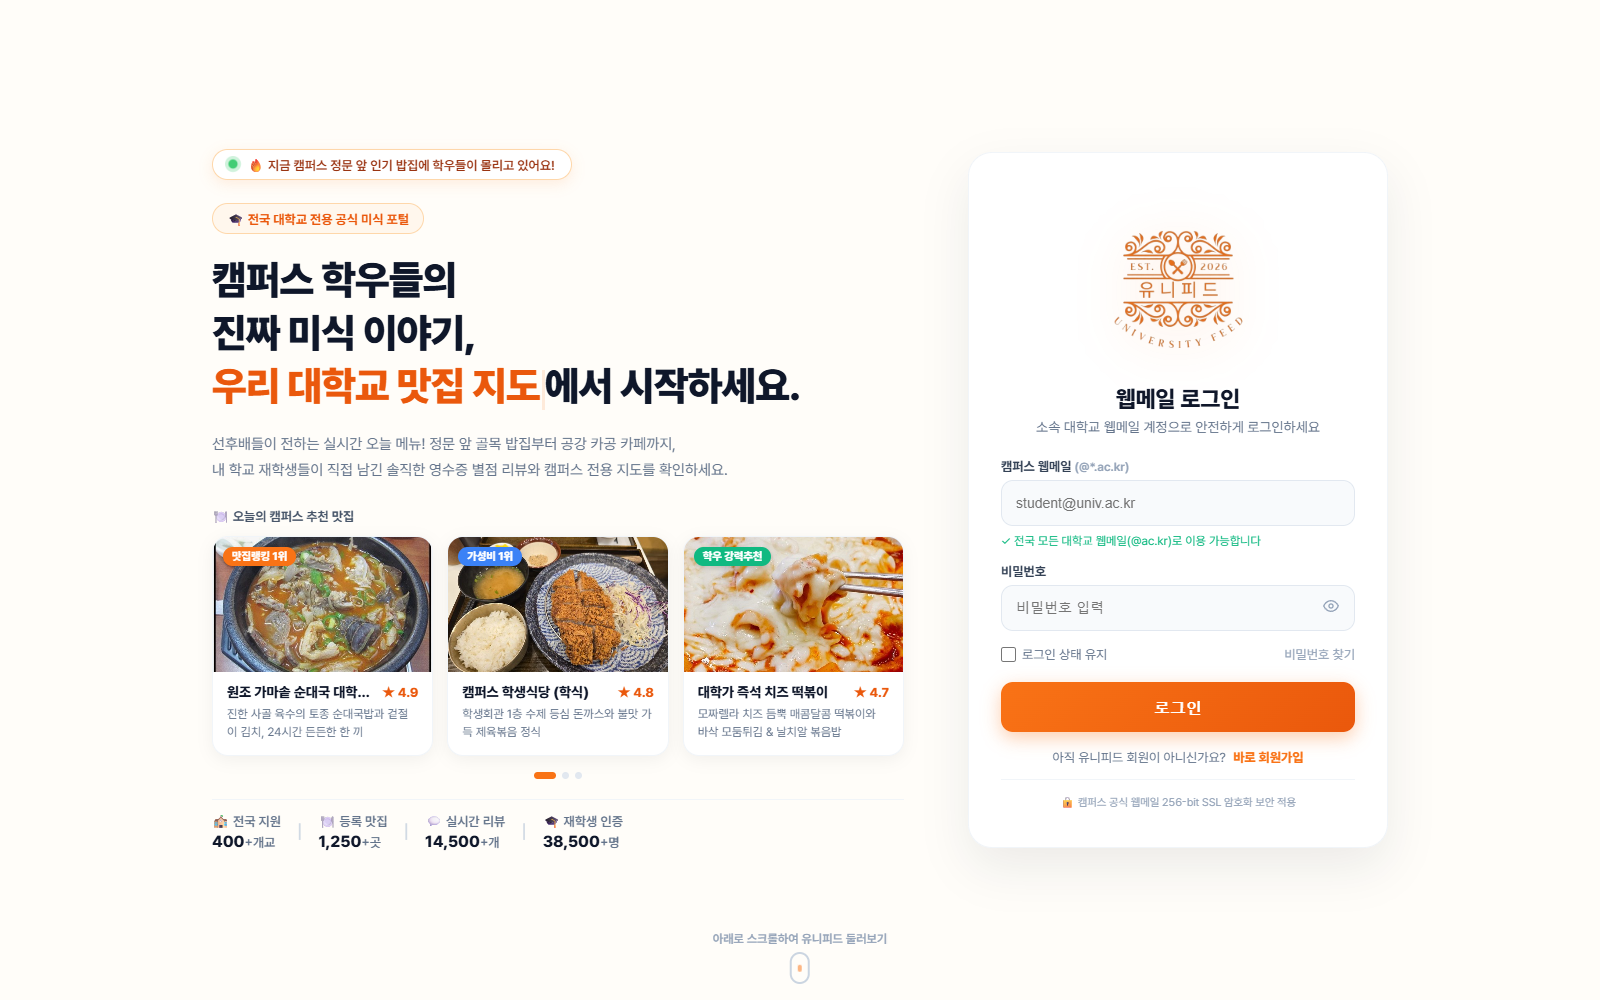
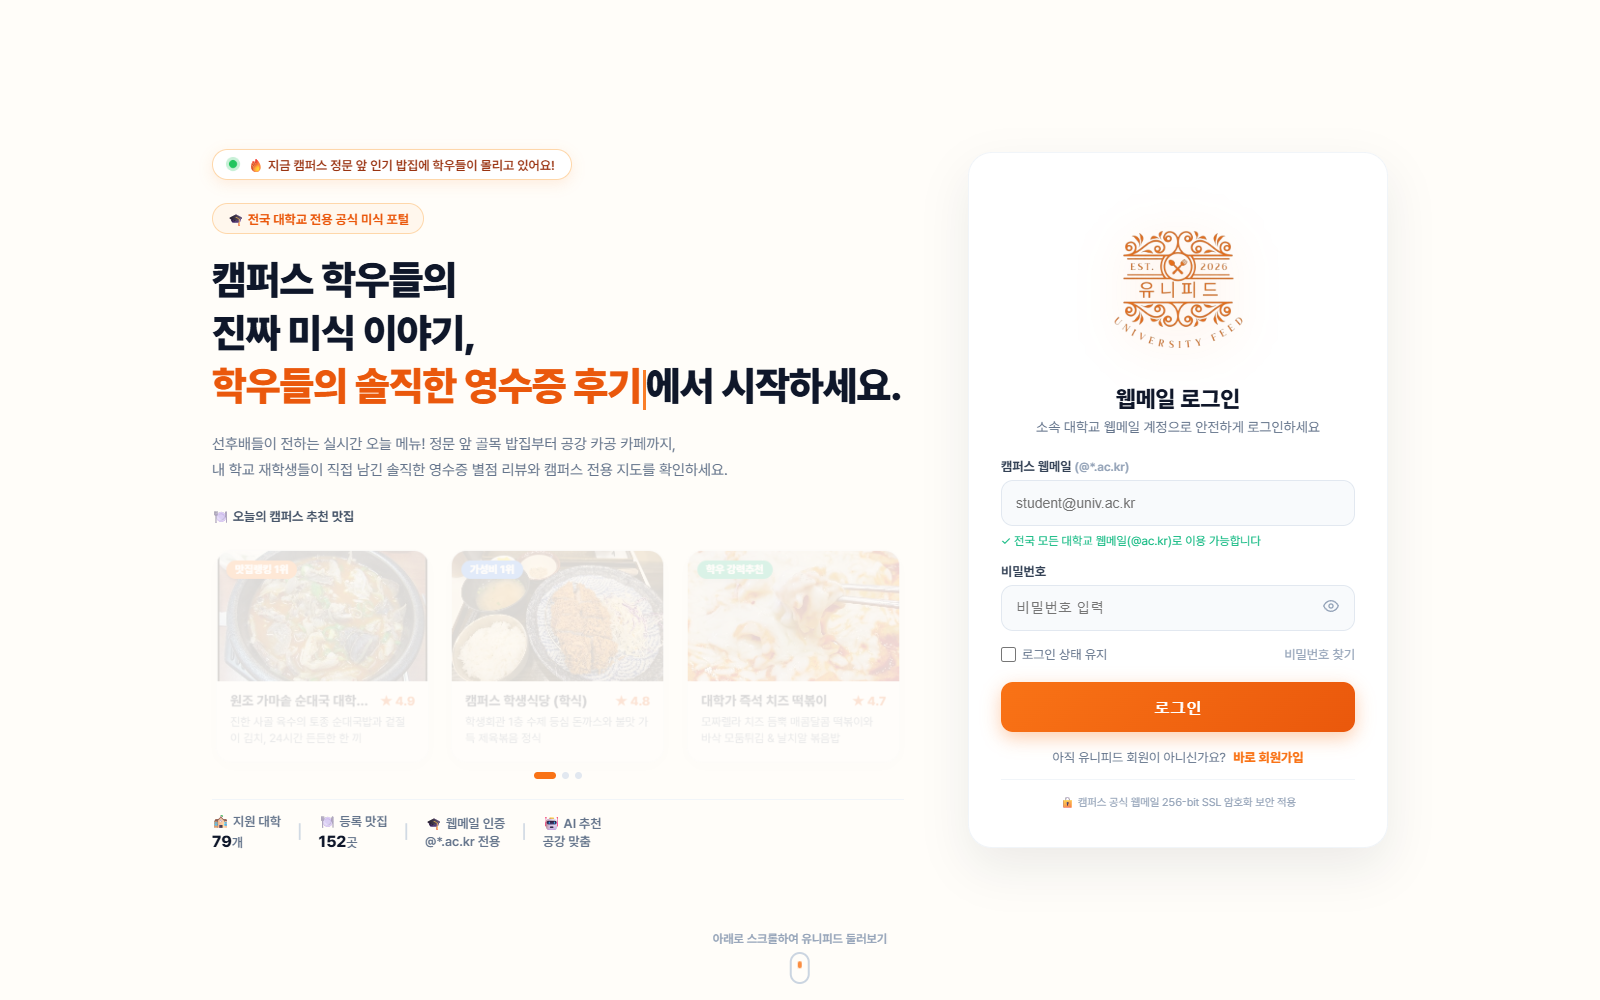
fix: 로그인 화면 통계바를 실제 DB 집계로 교체
하드코딩된 홍보용 더미 수치(400개교/1250곳/14500리뷰/38500명)를 걷어냈다.
- 지원 대학 / 등록 맛집: UniversityService.count(), RestaurantService.count() 실시간 집계
- 리뷰 수 / 회원 수: 숫자 대신 서비스 특징(웹메일 인증, AI 공강 추천) 표기
- README 로그인 스크린샷도 실제 수치 반영본으로 교체

diff --git a/src/main/resources/templates/auth/login.html b/src/main/resources/templates/auth/login.html
@@ -75,23 +75,23 @@
     <!-- 4. 하단 통계 숫자 (카운팅업 애니메이션) -->
     <div class="hero-stats">
       <div class="stat-item">
-        <span class="stat-label">🏫 전국 지원</span>
-        <span class="stat-val"><b class="count-up" data-target="400">0</b>+개교</span>
+        <span class="stat-label">🏫 지원 대학</span>
+        <span class="stat-val"><b class="count-up" th:attr="data-target=${universityCount}" data-target="0">0</b>개</span>
       </div>
       <span class="stat-divider">|</span>
       <div class="stat-item">
         <span class="stat-label">🍽 등록 맛집</span>
-        <span class="stat-val"><b class="count-up" data-target="1250">0</b>+곳</span>
+        <span class="stat-val"><b class="count-up" th:attr="data-target=${restaurantCount}" data-target="0">0</b>곳</span>
       </div>
       <span class="stat-divider">|</span>
       <div class="stat-item">
-        <span class="stat-label">💬 실시간 리뷰</span>
-        <span class="stat-val"><b class="count-up" data-target="14500">0</b>+개</span>
+        <span class="stat-label">🎓 웹메일 인증</span>
+        <span class="stat-val">@*.ac.kr 전용</span>
       </div>
       <span class="stat-divider">|</span>
       <div class="stat-item">
-        <span class="stat-label">🎓 재학생 인증</span>
-        <span class="stat-val"><b class="count-up" data-target="38500">0</b>+명</span>
+        <span class="stat-label">🤖 AI 추천</span>
+        <span class="stat-val">공강 맞춤</span>
       </div>
     </div>
 
@@ -635,7 +635,7 @@
         badgeClass: 'badge-orange',
         rating: '★ 4.9',
         desc: '진한 사골 육수의 토종 순대국밥과 겉절이 김치, 24시간 든든한 한 끼',
-        img: '/images/card-sundae-gukbap.jpg'
+        img: '/images/card-sundae-gukbap.jpg?v=2'
       },
       {
         name: '캠퍼스 학생식당 (학식)',
@@ -643,7 +643,7 @@
         badgeClass: 'badge-blue',
         rating: '★ 4.8',
         desc: '학생회관 1층 수제 등심 돈까스와 불맛 가득 제육볶음 정식',
-        img: '/images/card-donkatsu-jeongsik.jpg'
+        img: '/images/card-donkatsu-jeongsik.jpg?v=2'
       },
       {
         name: '대학가 즉석 치즈 떡볶이',
@@ -651,7 +651,7 @@
         badgeClass: 'badge-green',
         rating: '★ 4.7',
         desc: '모짜렐라 치즈 듬뿍 매콤달콤 떡볶이와 바삭 모둠튀김 & 날치알 볶음밥',
-        img: '/images/card-cheese-tteokbokki.jpg'
+        img: '/images/card-cheese-tteokbokki.jpg?v=2'
       }
     ],
     // 세트 2
@@ -662,7 +662,7 @@
         badgeClass: 'badge-orange',
         rating: '★ 4.9',
         desc: '베이컨 듬뿍 정통 까르보나라와 고르곤졸라 화덕 피자, 대학생 가성비 1등',
-        img: '/images/card-carbonara-pasta.jpg'
+        img: '/images/card-carbonara-pasta.jpg?v=2'
       },
       {
         name: '컴포즈커피 대학가점',
@@ -670,7 +670,7 @@
         badgeClass: 'badge-blue',
         rating: '★ 4.8',
         desc: '콘센트 넉넉한 2층 좌석과 가성비 대용량 아메리카노 & 갓 구운 와플',
-        img: '/images/card-cafe-americano.jpg'
+        img: '/images/card-cafe-americano.jpg?v=2'
       },
       {
         name: '착한밥상 찌개마을',
@@ -678,7 +678,7 @@
         badgeClass: 'badge-green',
         rating: '★ 4.8',
         desc: '밥·반찬 무한리필 든든한 돼지 김치찌개와 통통한 왕계란말이',
-        img: '/images/card-kimchi-jjigae.jpg'
+        img: '/images/card-kimchi-jjigae.jpg?v=2'
       }
     ],
     // 세트 3
@@ -689,7 +689,7 @@
         badgeClass: 'badge-orange',
         rating: '★ 4.9',
         desc: '주문 즉시 볶아내는 화끈한 불맛 제육볶음과 반숙 계란후라이 토핑',
-        img: '/images/card-jeyuk-deopbap.jpg'
+        img: '/images/card-jeyuk-deopbap.jpg?v=2'
       },
       {
         name: '대학가 수제 버거앤프라이즈',
@@ -697,7 +697,7 @@
         badgeClass: 'badge-blue',
         rating: '★ 4.8',
         desc: '육즙 가득 100% 소고기 수제 패티와 바삭바삭 갈릭 치즈 감자튀김',
-        img: '/images/card-handmade-burger.jpg'
+        img: '/images/card-handmade-burger.jpg?v=2'
       },
       {
         name: '정문 앞 얼큰한 해물짬뽕과 탕수육',
@@ -705,7 +705,7 @@
         badgeClass: 'badge-green',
         rating: '★ 4.7',
         desc: '홍합·전복 가득 얼큰한 삼선짬뽕과 찹쌀 탕수육, 공강 시간 5분 컷 빠른 서빙',
-        img: '/images/card-jjamppong-tangsuyuk.jpg'
+        img: '/images/card-jjamppong-tangsuyuk.jpg?v=2'
       }
     ]
   ];

diff --git a/src/main/resources/static/sw.js b/src/main/resources/static/sw.js
@@ -1,7 +1,7 @@
 // 유니피드 서비스워커 — 홈 화면 설치(PWA) 목적이 우선이라 범위를 최소로 잡는다.
 // 정적 자산(css/js/이미지/폰트)만 캐시하고, 페이지·API 응답은 절대 캐시하지 않는다
 // (지도/커뮤니티/신고 처리 같은 실시간 데이터를 오프라인 캐시로 보여주면 오히려 혼란만 줌).
-const CACHE_NAME = 'unifeed-static-v1';
+const CACHE_NAME = 'unifeed-static-v2';
 
 self.addEventListener('install', (event) => {
   self.skipWaiting();

diff --git a/src/main/java/ac/kr/osan/unifeed/controller/AuthController.java b/src/main/java/ac/kr/osan/unifeed/controller/AuthController.java
@@ -5,6 +5,8 @@ import ac.kr.osan.unifeed.dto.SignupForm;
 import ac.kr.osan.unifeed.dto.LoginForm;
 import ac.kr.osan.unifeed.entity.Member;
 import ac.kr.osan.unifeed.service.MemberService;
+import ac.kr.osan.unifeed.service.RestaurantService;
+import ac.kr.osan.unifeed.service.UniversityService;
 import jakarta.servlet.http.HttpServletRequest;
 import jakarta.servlet.http.HttpSession;
 import jakarta.validation.Valid;
@@ -21,10 +23,15 @@ public class AuthController {
 
     private final MemberService memberService;
     private final RateLimiter rateLimiter;
+    private final UniversityService universityService;
+    private final RestaurantService restaurantService;
 
-    public AuthController(MemberService memberService, RateLimiter rateLimiter) {
+    public AuthController(MemberService memberService, RateLimiter rateLimiter,
+                          UniversityService universityService, RestaurantService restaurantService) {
         this.memberService = memberService;
         this.rateLimiter = rateLimiter;
+        this.universityService = universityService;
+        this.restaurantService = restaurantService;
     }
 
     // 요청자 IP — 무차별 대입/스팸성 반복 요청을 IP 단위로 제한할 때 쓴다.
@@ -48,6 +55,10 @@ public class AuthController {
             return "redirect:/map";
         }
         model.addAttribute("loginForm", new LoginForm());
+
+        // 로그인 화면 통계바 — 하드코딩한 홍보용 숫자 대신 실제 DB 집계를 보여준다.
+        model.addAttribute("universityCount", universityService.count());
+        model.addAttribute("restaurantCount", restaurantService.count());
 
         if (verifyPending != null) {
             model.addAttribute("loginInfo", "인증 메일을 보냈습니다. 받은 메일함(스팸함도 확인)에서 링크를 눌러 인증을 완료해주세요.");

diff --git a/src/main/java/ac/kr/osan/unifeed/service/UniversityService.java b/src/main/java/ac/kr/osan/unifeed/service/UniversityService.java
@@ -16,6 +16,11 @@ public class UniversityService {
         this.universityRepository = universityRepository;
     }
 
+    // 로그인 화면 통계바에서 "지원 대학 수"로 쓴다.
+    public long count() {
+        return universityRepository.count();
+    }
+
     public List<University> search(String keyword) {
         if (keyword == null || keyword.isBlank()) {
             return universityRepository.findAllByOrderByNameAsc();
